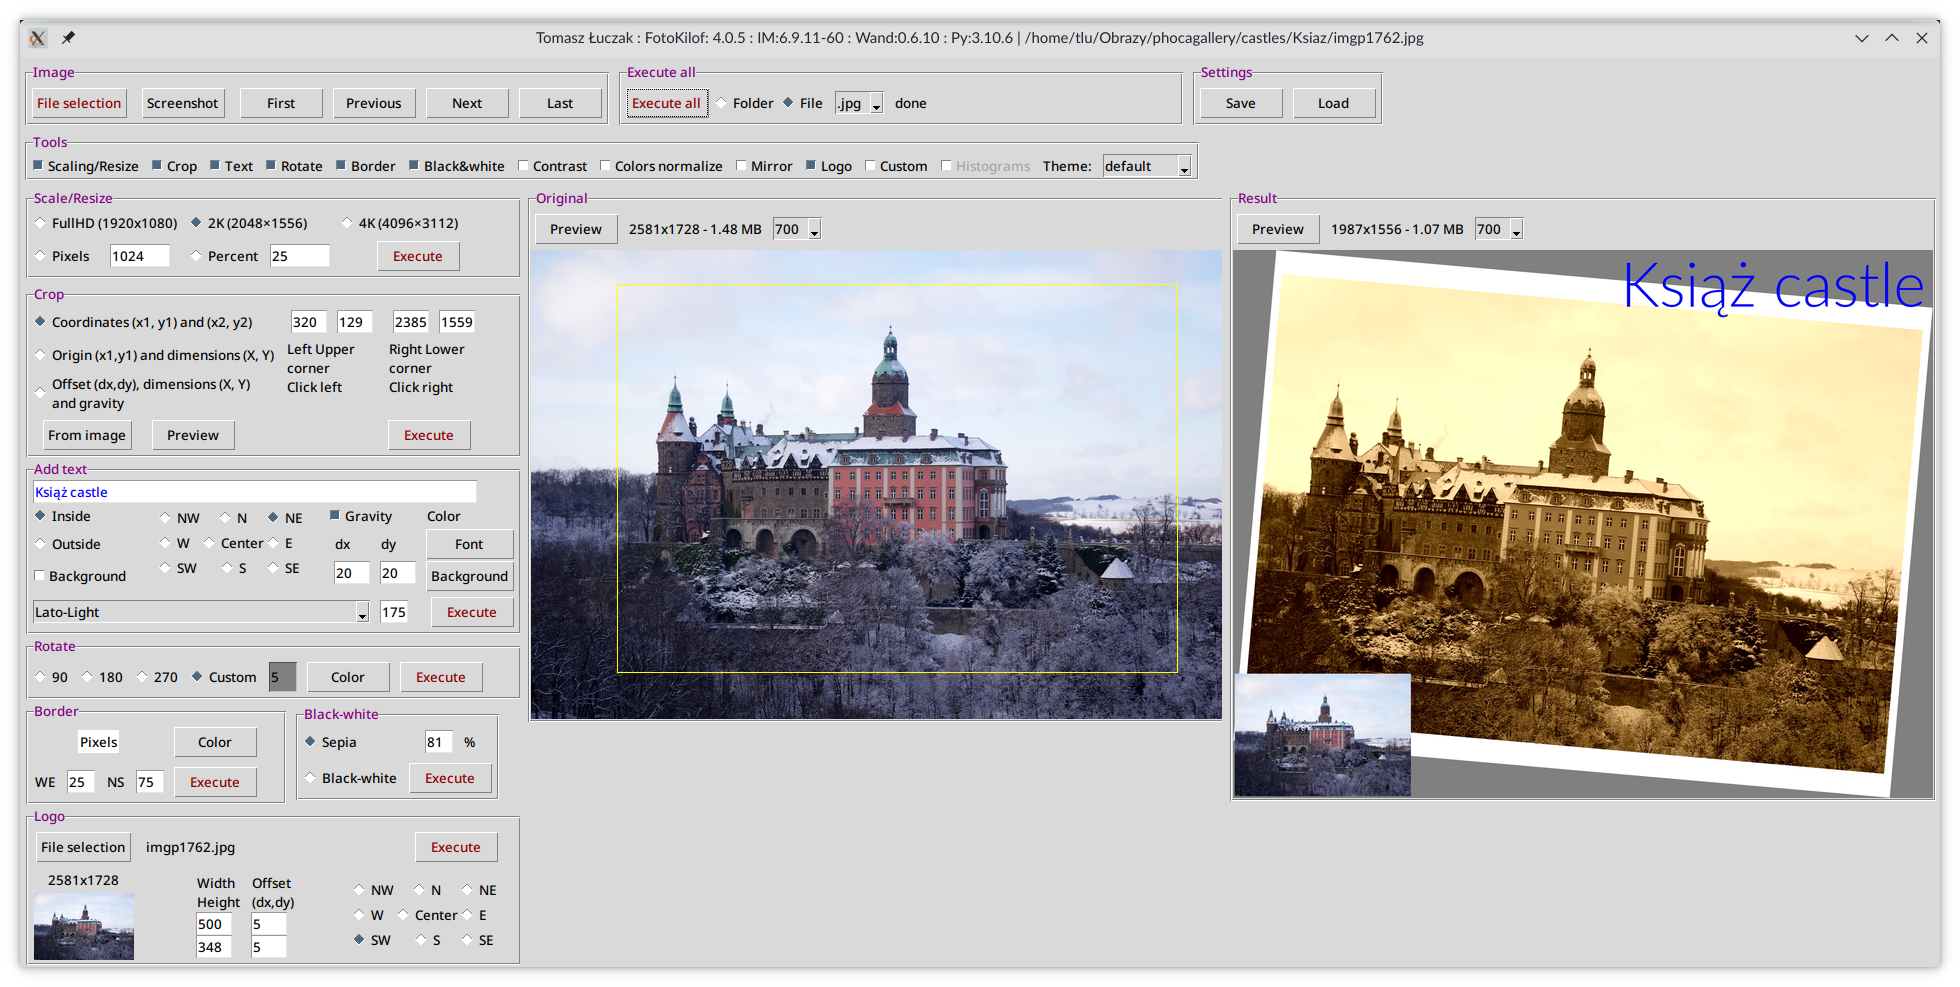
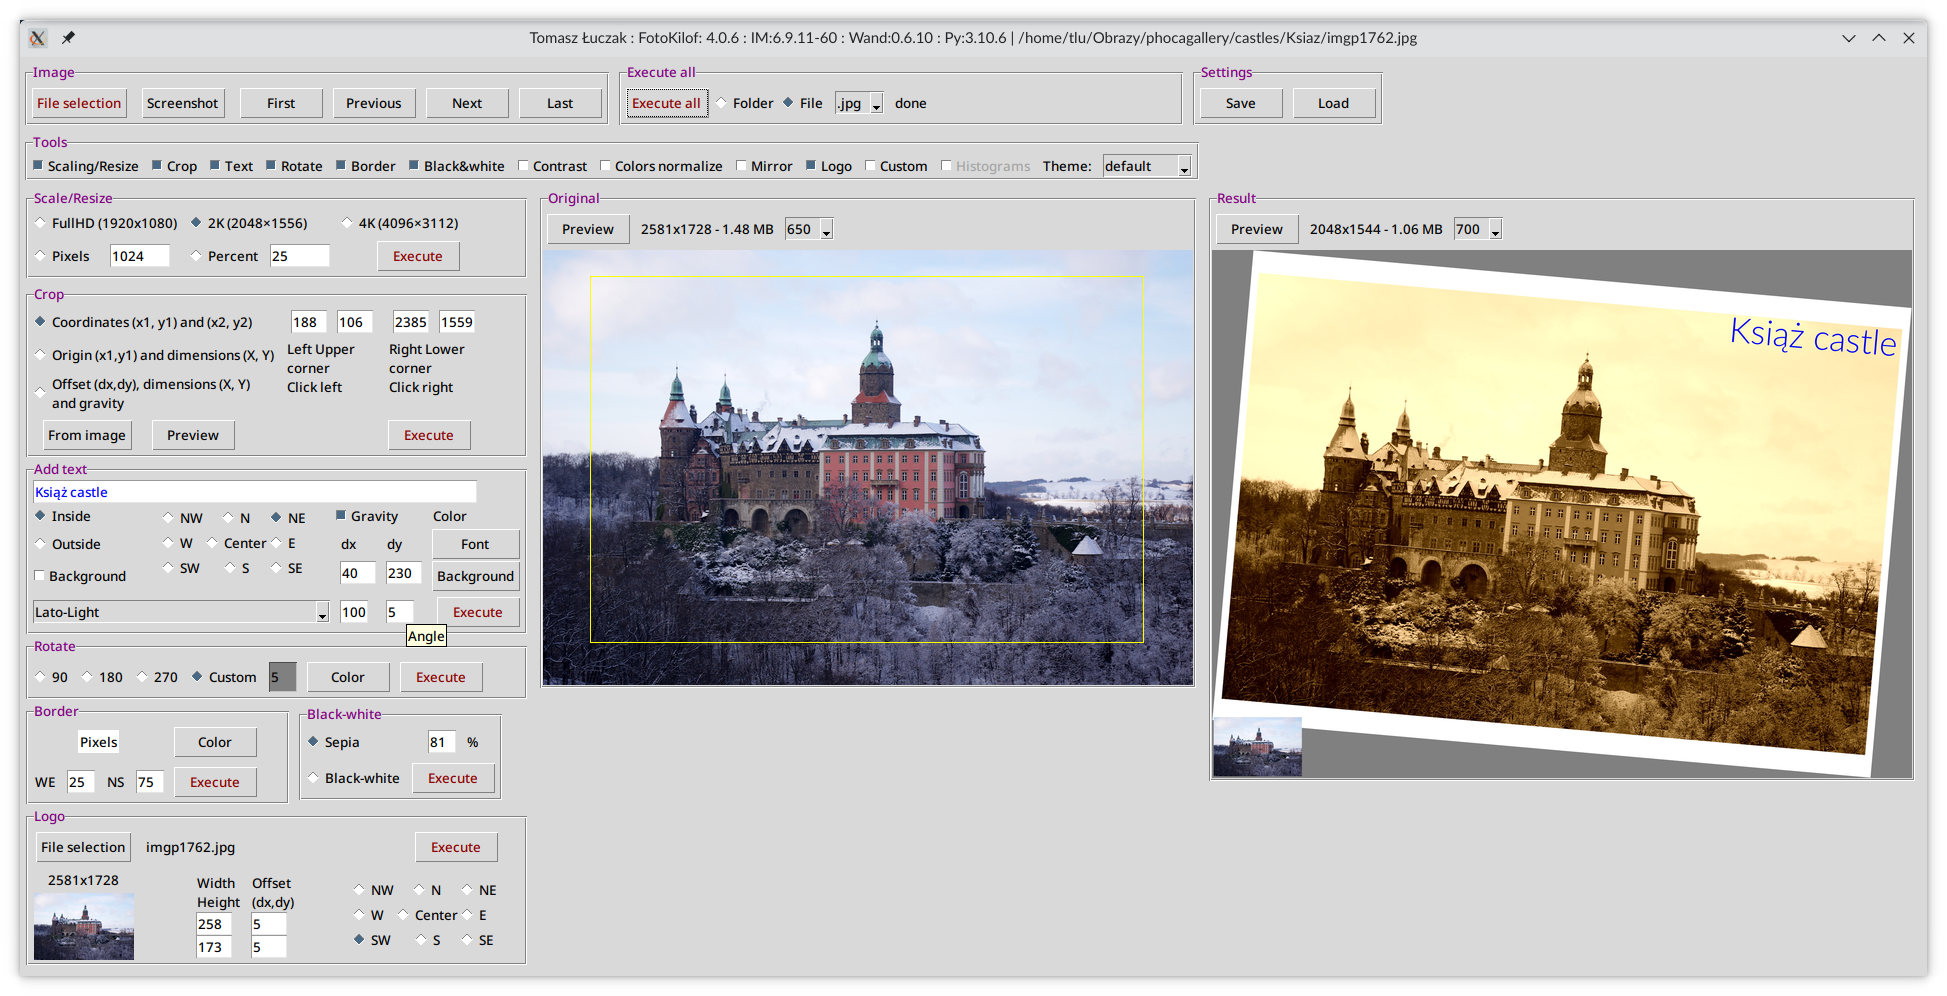
4.0.6

Changed region(s): [[0.0, 0.0304, 0.9861, 0.9726], [0.9553, 0.1824, 0.9861, 0.2128], [0.3082, 0.2736, 0.339, 0.304]]

diff --git a/fotokilof/fotokilof.py b/fotokilof/fotokilof.py
@@ -34,6 +34,7 @@ from tkinter.scrolledtext import ScrolledText
 from tkinter import filedialog, messagebox
 from tkinter import TclError, StringVar, IntVar
 from tkinter import N, S, W, E, END, DISABLED, NORMAL
+from idlelib.tooltip import Hovertip
 try:
     from tkcolorpicker import askcolor
 except:
@@ -240,7 +241,7 @@ def apply_all_button():
                 # standard subdir for result picture
                 subdir = work_dir.get()
             if img_text_on.get():
-                convert_wand.text(clone, img_text_inout.get(),
+                convert_wand.text(clone, img_text_inout.get(), e_text_angle.get(),
                                     img_text_color.get(), img_text_font.get(), e_text_size.get(),
                                     img_text_gravity_onoff.get(), img_text_gravity.get(),
                                     img_text_box.get(), img_text_box_color.get(),
@@ -440,7 +441,7 @@ def convert_text_button():
     progress_files.set(_("Processing"))
     root.update_idletasks()
     clone = convert_wand.make_clone(file_in_path.get())
-    convert_wand.text(clone, img_text_inout.get(),
+    convert_wand.text(clone, img_text_inout.get(), e_text_angle.get(),
                                     img_text_color.get(), img_text_font.get(), e_text_size.get(),
                                     img_text_gravity_onoff.get(), img_text_gravity.get(),
                                     img_text_box.get(), img_text_box_color.get(),
@@ -1817,6 +1818,8 @@ co_text_font = ttk.Combobox(frame_text, width=35,
 co_text_font.configure(state='readonly')
 e_text_size = ttk.Entry(frame_text, width=3,
                         validate="key", validatecommand=(validation, '%S'))
+e_text_angle = ttk.Entry(frame_text, width=3,
+                        validate="key", validatecommand=(validation, '%S'))
 l_text_color = ttk.Label(frame_text, text=_("Color"))
 b_text_color = ttk.Button(frame_text, text=_("Font"),
                           command=color_choose)
@@ -1828,8 +1831,9 @@ b_text_run = ttk.Button(frame_text, text=_("Execute"),
 l_text_color.grid(row=2, column=5, sticky=(W, E), padx=5, pady=1)
 b_text_color.grid(row=3, column=5, sticky=(W, E), padx=5, pady=1)
 b_text_box_color.grid(row=4, column=5, sticky=(W, E), padx=5, pady=1)
-co_text_font.grid(row=5, column=1, columnspan=3, sticky=(W, E), padx=5)
-e_text_size.grid(row=5, column=4, sticky=W, padx=5)
+co_text_font.grid(row=5, column=1, columnspan=2, sticky=(W, E), padx=5)
+e_text_size.grid(row=5, column=3, sticky=W, padx=5)
+e_text_angle.grid(row=5, column=4, sticky=W, padx=5)
 b_text_run.grid(row=5, column=5, sticky=(E), padx=5, pady=5)
 
 ###########################
@@ -2203,6 +2207,11 @@ root.bind("<Next>", open_file_next_key)
 root.bind("<Home>", open_file_first_key)
 root.bind("<End>", open_file_last_key)
 
+###############################################################################
+# toolTips
+###############################################################################
+Hovertip(e_text_size,_("Text size"))
+Hovertip(e_text_angle,_("Angle"))
 ##########################################
 # Run functions
 #

diff --git a/fotokilof/convert_wand.py b/fotokilof/convert_wand.py
@@ -116,7 +116,7 @@ def border(clone, color, x, y):
     clone.border(color, common.empty(x), common.empty(y))
 
 
-def text(clone, in_out, 
+def text(clone, in_out, angle,
             text_color, font, text_size, 
             gravity_onoff, gravity, 
             box, box_color,
@@ -135,8 +135,13 @@ def text(clone, in_out,
                     draw.gravity = str(convert.gravitation(gravity))
                 if box:
                     draw.text_under_color = box_color
-                draw.text(common.empty(text_x), common.empty(text_y), text)
-                draw(clone)
+                #draw.text(common.empty(text_x), common.empty(text_y), text)
+                #draw(clone)
+                #clone.annotate(text, draw, left=20, baseline=50, angle=angle)
+                clone.annotate(text, draw, angle=common.empty(angle), 
+                        left=common.empty(text_x), baseline=common.empty(text_y))
+
+                
         else:
             # it has to be fixed
             style = Font(font, common.empty(text_size), text_color)

diff --git a/fotokilof/version.py b/fotokilof/version.py
@@ -22,7 +22,7 @@ OUT OF OR IN CONNECTION WITH THE SOFTWARE OR THE USE OR OTHER DEALINGS IN
 THE SOFTWARE.
 """
 
-__version__ = "4.0.5"
+__version__ = "4.0.6"
 __author__ = "Tomasz Łuczak"
 __email__ = "tlu@team-tl.pl"
 __appname__ = "FotoKilof"

diff --git a/CHANGES.md b/CHANGES.md
@@ -2,6 +2,8 @@
 
 ## 2022
 
+4.0.6 added rotation of text, tooltips
+
 4.0.5 added gravity for logo, fixed resize conversion if FotoKilof parent directory doesn't exists
 
 4.0.4 fix processing whole directory, fix directory name
